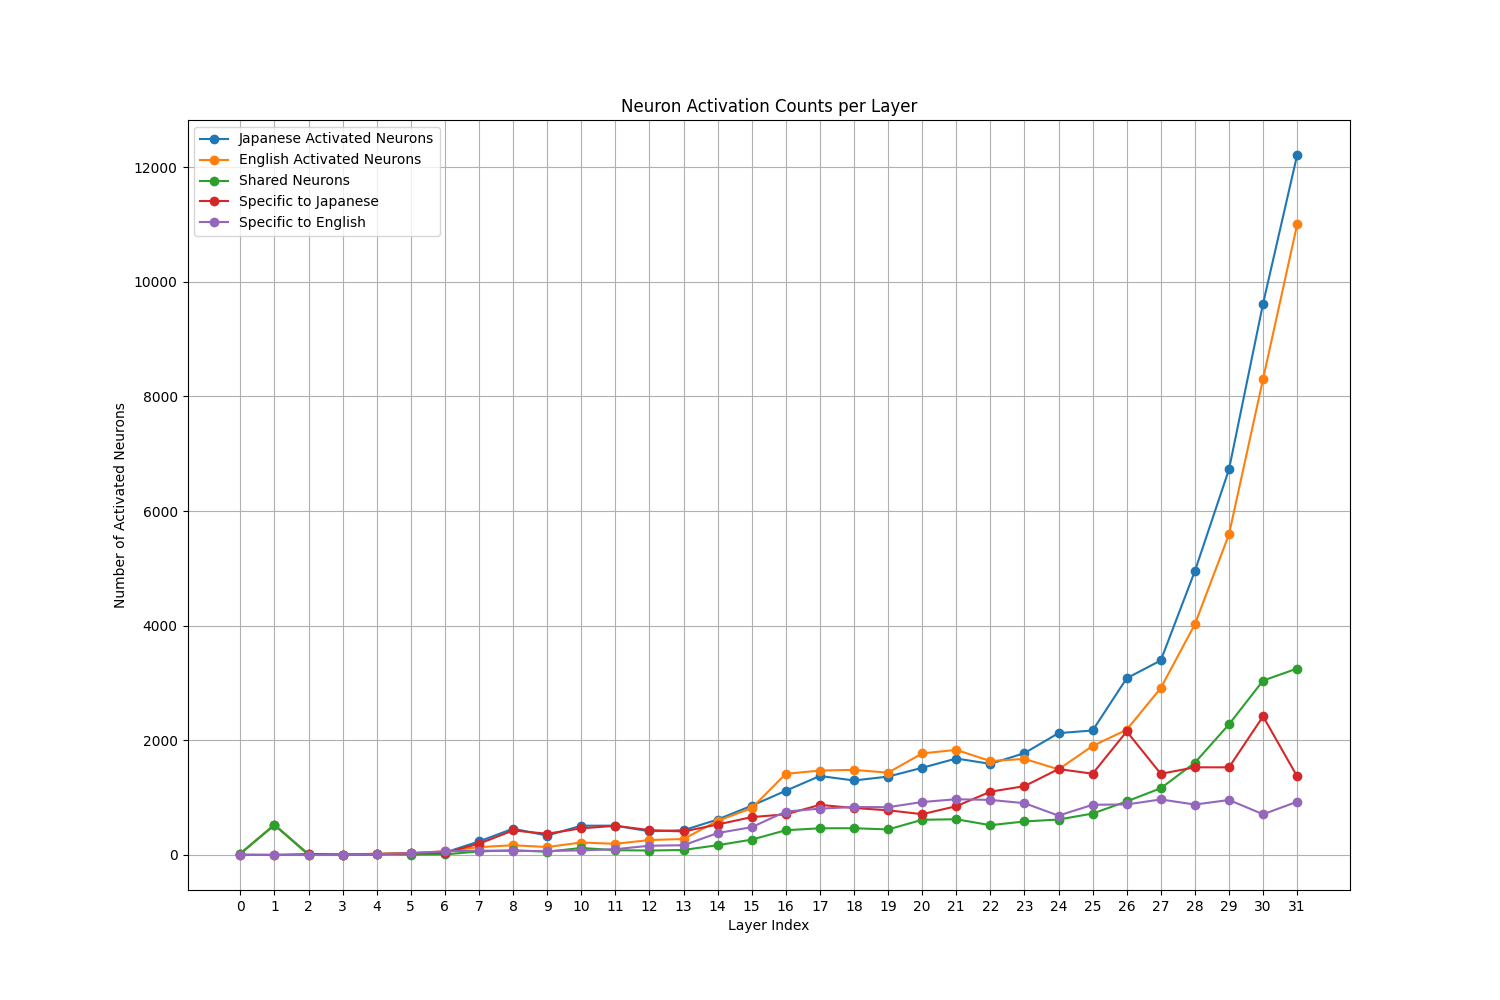
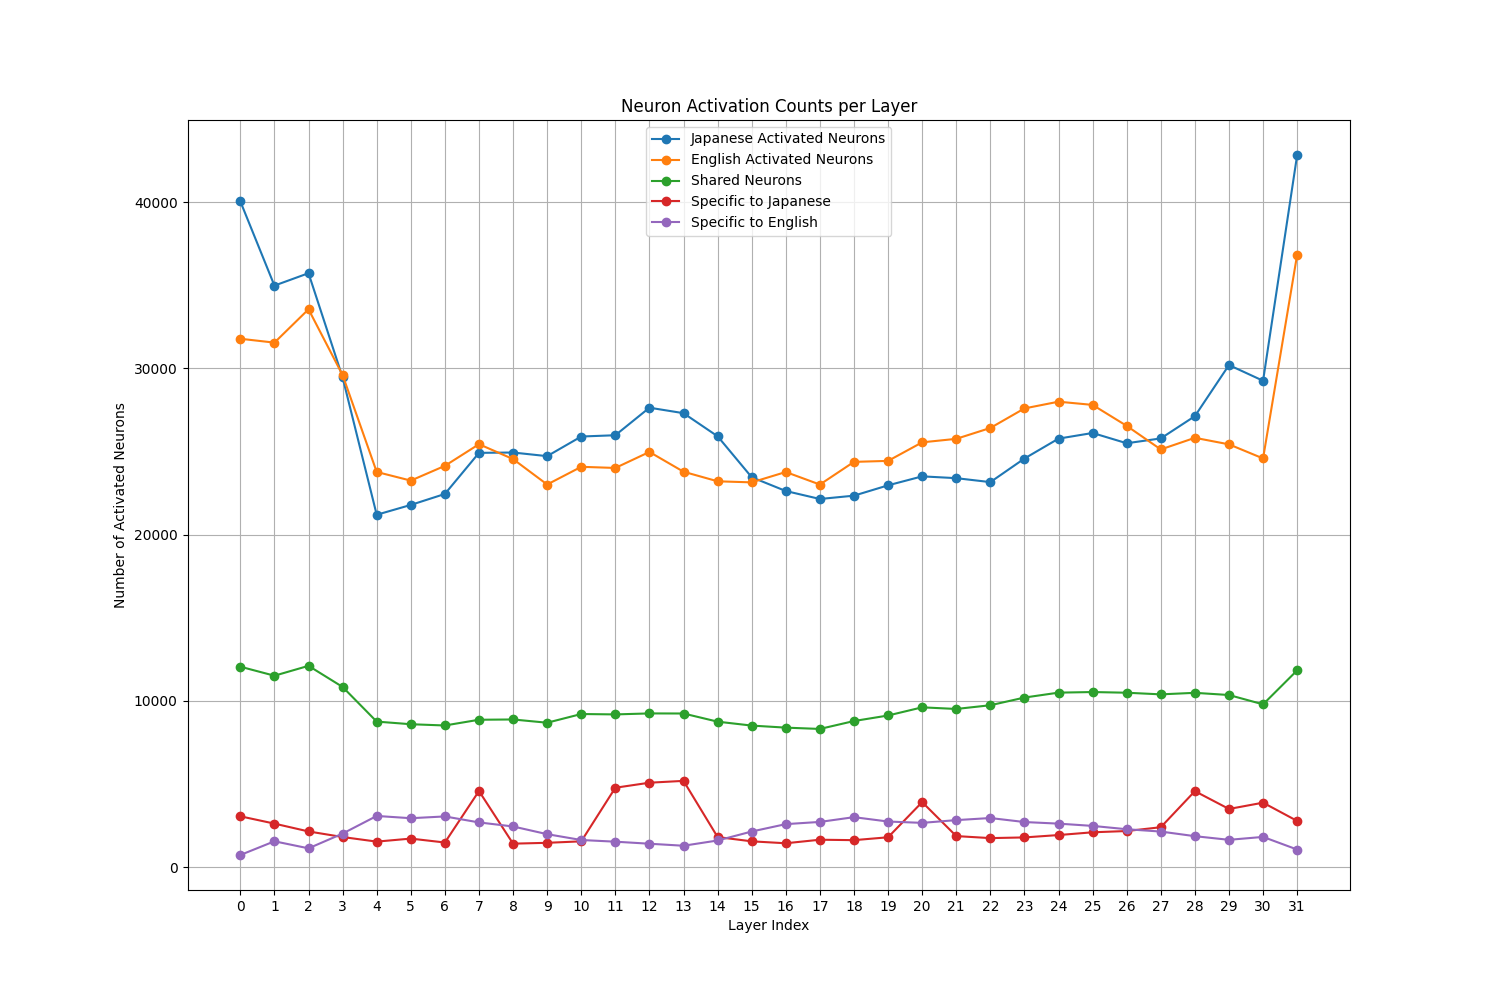
update_neuron_detection

diff --git a/activated_neuron/detect_act_neurons.py b/activated_neuron/detect_act_neurons.py
@@ -15,11 +15,12 @@ model_name = "tokyotech-llm/Llama-3-Swallow-8B-v0.1"
 tokenizer = AutoTokenizer.from_pretrained(model_name)
 model = AutoModelForCausalLM.from_pretrained(model_name).to("cuda")
 MODEL = 'llama3'
-
+# print(model.model.layers[0].mlp.act_fn)
+# sys.exit()
 def get_out_llama3(model, prompt, device, index):
     model.eval() # swith the model to evaluation mode (deactivate dropout, batch normalization)
     num_layers = model.config.num_hidden_layers  # nums of layers of the model
-    MLP_act = [f"model.layers.{i}.mlp" for i in range(num_layers)]  # generate path to MLP layer(of LLaMA-3)
+    MLP_act = [f"model.layers.{i}.mlp.act_fn" for i in range(num_layers)]  # generate path to MLP layer(of LLaMA-3)
 
     with torch.no_grad():
         # trace MLP layers using TraceDict
